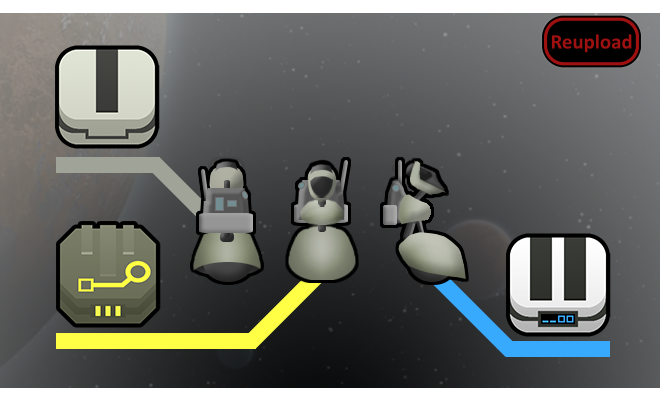
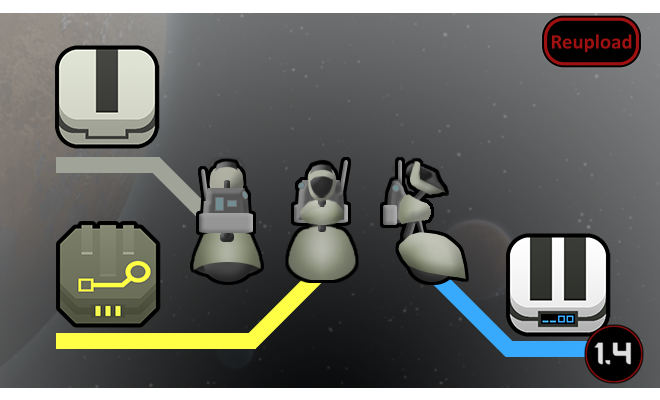
Last update, added end-of-life message

Changed region(s): [[0.8788, 0.81, 1.0, 0.96]]

diff --git a/README.md b/README.md
@@ -1,12 +1,15 @@
-# WhatTheHackALittleExpansion
+# [What the hack - A little expansion (Continued)](https://steamcommunity.com/sharedfiles/filedetails/?id=2931976761)
 
 ![Image](https://i.imgur.com/buuPQel.png)
 
 Update of MrKociaks mod
 https://steamcommunity.com/sharedfiles/filedetails/?id=2456962656
 
-![Image](https://i.imgur.com/pufA0kM.png)
+- Updated version by Zaljerem [here](https://steamcommunity.com/sharedfiles/filedetails/?id=3400834754)
 
+![Image](https://i.imgur.com/3npT60J.png)
+
+This mod has been replaced by [What the Hack?! - A Little Expansion (Continued)](https://steamcommunity.com/sharedfiles/filedetails/?id=3400834754) by Zaljerem
 	
 ![Image](https://i.imgur.com/Z4GOv8H.png)
 
@@ -98,9 +101,12 @@ https://steamcommunity.com/sharedfiles/filedetails/?id=2469712948&amp;searchtext
 
 -  See if the the error persists if you just have this mod and its requirements active.
 -  If not, try adding your other mods until it happens again.
--  Post your error-log using https://steamcommunity.com/workshop/filedetails/?id=818773962]HugsLib and command Ctrl+F12
+-  Post your error-log using [HugsLib](https://steamcommunity.com/workshop/filedetails/?id=818773962) or the standalone [Uploader](https://steamcommunity.com/sharedfiles/filedetails/?id=2873415404) and command Ctrl+F12
 -  For best support, please use the Discord-channel for error-reporting.
 -  Do not report errors by making a discussion-thread, I get no notification of that.
 -  If you have the solution for a problem, please post it to the GitHub repository.
+-  Use [RimSort](https://github.com/RimSort/RimSort/releases/latest) to sort your mods
 
+ 
 
+[![Image](https://img.shields.io/github/v/release/emipa606/WhatTheHackALittleExpansion?label=latest%20version&style=plastic&color=9f1111&labelColor=black)](https://steamcommunity.com/sharedfiles/filedetails/changelog/2931976761)
